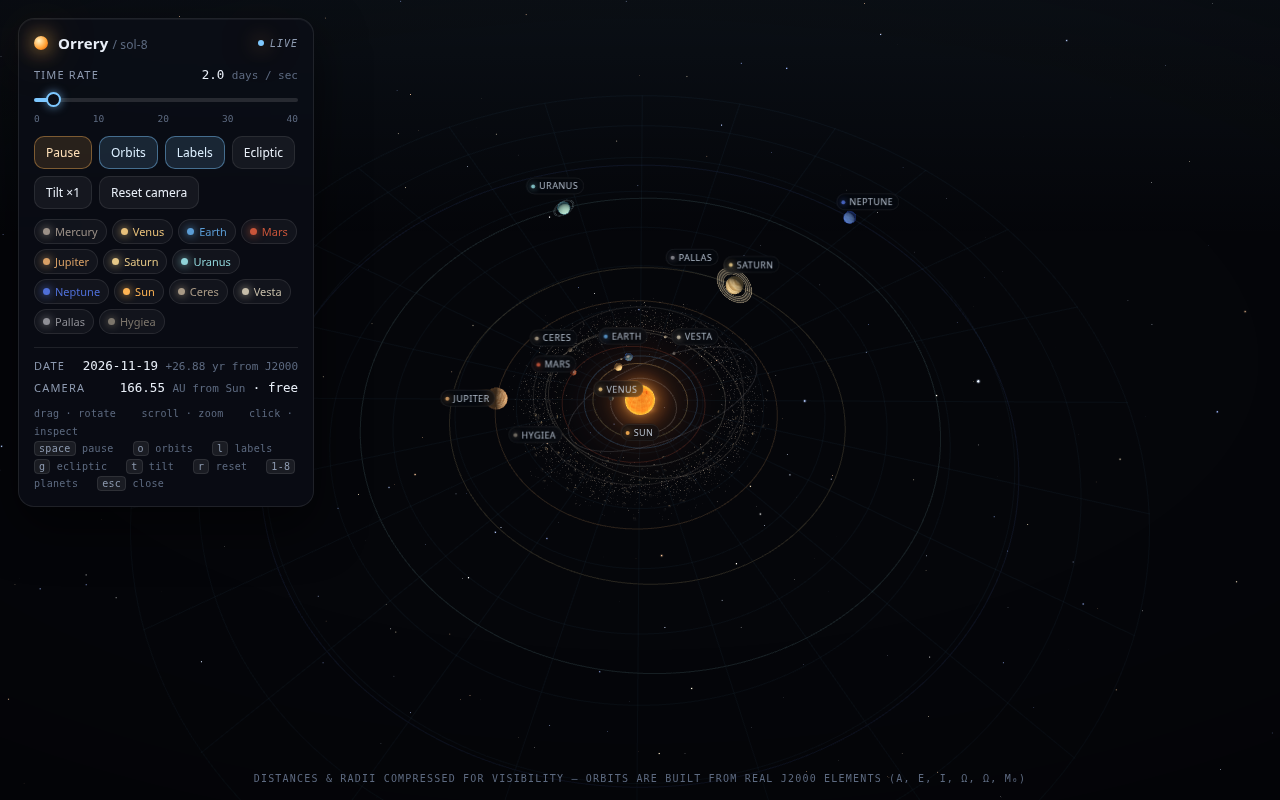
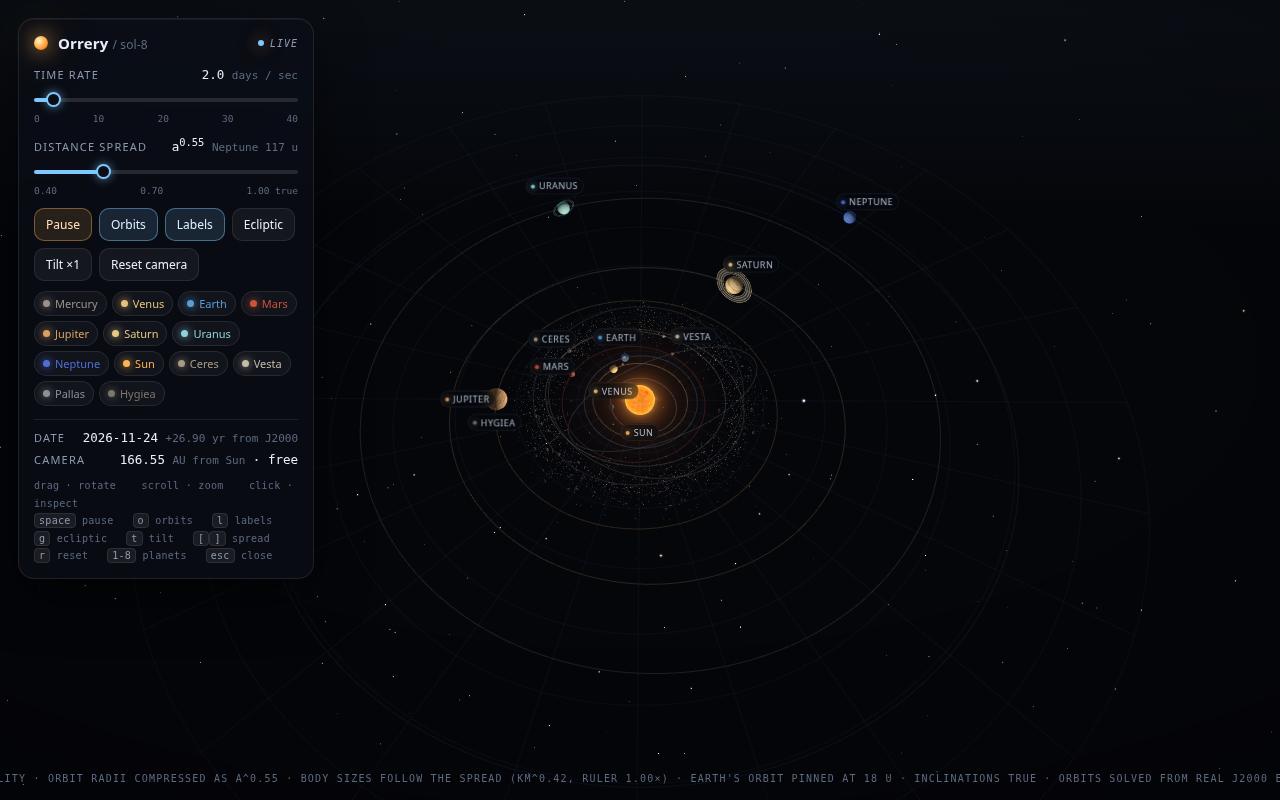
measured the framing the spread asks for, and corrected the note
The README claimed a^1.00 needs 1134 u and that MAX_DIST 1100 clamps it. Measured:
the overview camera is 126 / 210 / 350 / 971 u across the slider — exactly 1.795x
Neptune's orbit radius at every setting, projecting to the same 1.219 half-frames
of the viewport. No clamp, no loss of framing. The self-test now asserts the widest
framing stays within the wheel range as well.

docs/ screenshots regenerated with the new ruler in place.

diff --git a/test/selftest.js b/test/selftest.js
@@ -522,11 +522,16 @@ setTimeout(() => {
       framed[p.toFixed(2)] = { reach: __frameReach(outerB), fit: cam.dist / auToUnit(outerAu), dist: cam.dist };
     }
     const reaches = Object.values(framed).map(f => f.reach), fits = Object.values(framed).map(f => f.fit);
+    const distances = Object.values(framed).map(f => f.dist);
+    /* The framing has to stay inside what the wheel can reach: if the slider ever wanted a
+       camera beyond MAX_DIST, the overview would no longer be the overview. */
     ok('the view you are looking at survives a spread change',
        Math.max(...reaches) - Math.min(...reaches) < 0.02 &&
-       Math.max(...fits) - Math.min(...fits) < 1e-6,
+       Math.max(...fits) - Math.min(...fits) < 1e-6 &&
+       Math.max(...distances) <= MAX_DIST,
        Object.keys(framed).map(k => 'a^' + k + ' cam ' + framed[k].dist.toFixed(0)).join(' · ') +
-       ' \u00b7 outer orbit reaches ' + reaches.map(r => r.toFixed(2)).join(' / ') + ' of the frame');
+       ' \u00b7 outer orbit reaches ' + reaches.map(r => r.toFixed(2)).join(' / ') + ' of the frame' +
+       ' \u00b7 widest framing ' + Math.max(...distances).toFixed(0) + ' u against a wheel range of ' + MAX_DIST);
 
     /* Park the overview camera at a fixed 300 units from the Sun at every spread and
        read what the head-up display claims in AU. The expectation is computed here from

diff --git a/README.md b/README.md
@@ -253,9 +253,12 @@ and the **follow camera**, which multiplies its distance by the body's own growt
 riding Jupiter and then opening the spread keeps the same framing of Jupiter instead of diving
 into it.
 
-At the extreme, holding the default framing at `a^1.00` wants a camera at 1 134 units and
-`MAX_DIST 1100` clamps it: at the far end of the slider Neptune sits a whisker outside the default
-overview (1 094 of the 1 134 of a frame reach) and the wheel takes you the rest of the way.
+**The framing rides it too.** The overview camera is re-derived from the span at every setting —
+126 / 210 / 350 / 971 u across the slider, always exactly 1.795 × Neptune's orbit radius, and the
+outer orbit projects to the same 1.219 half-frames of the viewport at every spread (`the view you
+are looking at survives a spread change` checks the projection, not the ratio). `MAX_DIST 1100`
+never binds on the slider; the wheel can push you out past Neptune at the wide end, and `MIN_DIST 9`
+holds in the free view (riding a body raises it to `body.r × 3.2` so you cannot zoom inside it).
 
 ---
 
